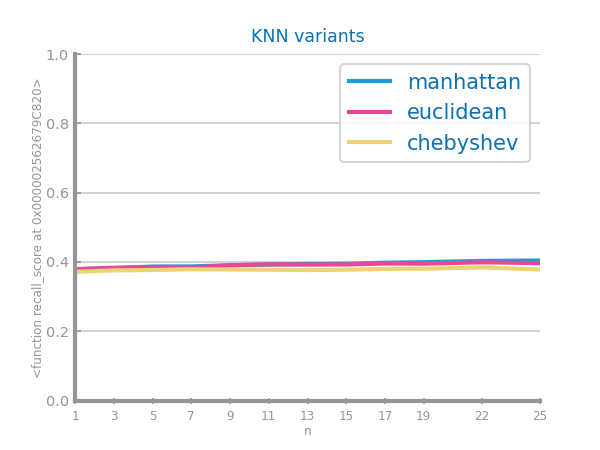
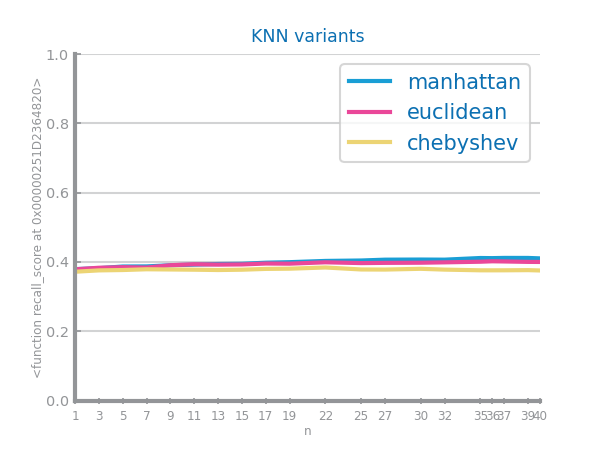
over and under sampling done for knn diabetic

diff --git a/KNN_Balancing.py b/KNN_Balancing.py
@@ -2,11 +2,11 @@ from numpy import ndarray
 from pandas import DataFrame, read_csv, unique
 from matplotlib.pyplot import figure, savefig, show
 from sklearn.neighbors import KNeighborsClassifier
-from ds_charts import plot_evaluation_results, multiple_line_chart, plot_overfitting_study
+from ds_charts import HEIGHT,subplots, confusion_matrix, multiple_line_chart, plot_overfitting_study, multiple_bar_chart, plot_confusion_matrix
 from sklearn.metrics import accuracy_score , precision_score, recall_score, f1_score
 
-file_tag = 'diabetes_f1'
-filename = 'data/Balancing/diabetic_oversample'
+file_tag = 'diabetes_recall'
+filename = 'data/Balancing/diabetic_undersample'
 target = 'readmitted'
 
 train: DataFrame = read_csv(f'{filename}_train.csv')
@@ -19,16 +19,17 @@ test: DataFrame = read_csv(f'{filename}_test.csv')
 tstY: ndarray = test.pop(target).values
 tstX: ndarray = test.values
 
-eval_metric = f1_score
+eval_metric = recall_score
 nvalues = nvalues = [1, 3, 5, 7, 9, 11, 13, 15, 17, 19, 22, 25, 27, 30, 32, 35, 36, 37, 39, 40]
 dist = ['manhattan', 'euclidean', 'chebyshev']
 values = {}
+
 best = (0, '')
 last_best = 0
 for d in dist:
     y_tst_values = []
     for n in nvalues:
-        print("Cal_best" + n)
+        print(n)
         knn = KNeighborsClassifier(n_neighbors=n, metric=d)
         knn.fit(trnX, trnY)
         prd_tst_Y = knn.predict(tstX)
@@ -39,16 +40,43 @@ for d in dist:
     values[d] = y_tst_values
 
 figure()
-multiple_line_chart(nvalues, values, title='KNN variants', xlabel='n', ylabel=str(f1_score), percentage=True)
-savefig('images/balancing/KNN/diabetic/oversample/' + file_tag + '_knn_study.png')
+multiple_line_chart(nvalues, values, title='KNN variants', xlabel='n', ylabel=str(recall_score), percentage=True)
+savefig('images/balancing/KNN/diabetic/undersample/' + file_tag + '_knn_study.png')
 show()
 print('Best results with %d neighbors and %s'%(best[0], best[1]))
-"""
+
+
+
+#eval results
+#best= (37 , 'manhattan')
+def plot_evaluation_results(labels: ndarray, trn_y, prd_trn, tst_y, prd_tst, pos_value: int = 1, average_param: str = 'binary'):
+
+    def compute_eval(real, prediction):
+            evaluation = {
+            'acc': accuracy_score(real, prediction),
+            'recall': recall_score(real, prediction, pos_label=pos_value, average=average_param),
+            'precision': precision_score(real, prediction, pos_label=pos_value, average=average_param),
+            'f1': f1_score(real, prediction, pos_label=pos_value, average=average_param)
+            }
+            return evaluation
+
+    eval_trn = compute_eval(trn_y, prd_trn)
+    eval_tst = compute_eval(tst_y, prd_tst)
+    evaluation = {}
+    for key in eval_trn.keys():
+        evaluation[key] = [eval_trn[key], eval_tst[key]]
+
+    _, axs = subplots(1, 2, figsize=(2 * HEIGHT, HEIGHT))
+    multiple_bar_chart(['Train', 'Test'], evaluation, ax=axs[0], title="Model's performance over Train and Test sets", percentage=True)
+
+    cnf_mtx_tst = confusion_matrix(tst_y, prd_tst, labels=labels)
+    plot_confusion_matrix(cnf_mtx_tst, labels, ax=axs[1], title='Test')
+
 clf = knn = KNeighborsClassifier(n_neighbors=best[0], metric=best[1])
 clf.fit(trnX, trnY)
 prd_trn = clf.predict(trnX)
 prd_tst = clf.predict(tstX)
-plot_evaluation_results(labels, trnY, prd_trn, tstY, prd_tst)
-savefig(f'images/balancing/KNN/diabetic/oversample/{file_tag}_knn_best.png')
+plot_evaluation_results(labels, trnY, prd_trn, tstY, prd_tst, average_param="macro")
+savefig(f'images/balancing/KNN/diabetic/undersample/{file_tag}_knn_best.png')
 show()
-"""
+
